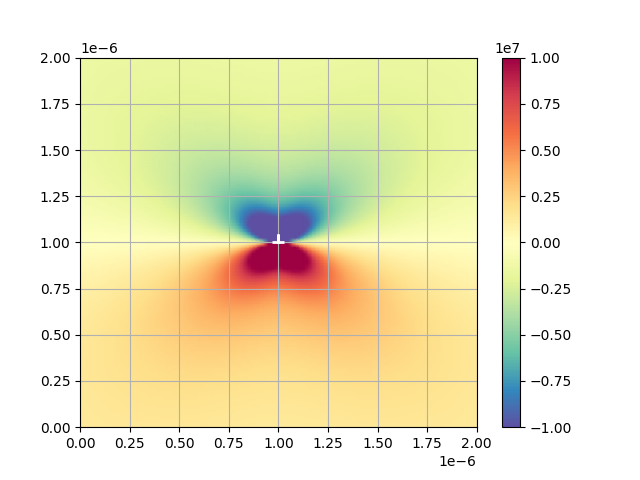
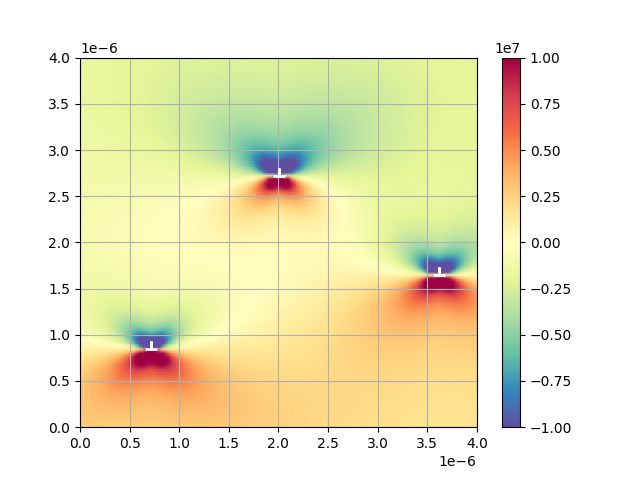
Forces and overall Stresses

diff --git a/main.py b/main.py
@@ -3,9 +3,9 @@ import matplotlib.pyplot as plt
 
 
 class Dislocation:
-    def __init__(self, burgerVec, lineVec, position):
+    def __init__(self, burgerVec, sign, position):
         self.BurgerVec = burgerVec
-        self.LineVec = lineVec
+        self.Sign = sign
         self.Position = position
 
 
@@ -14,59 +14,159 @@ class MaterialParameters:
         self.nu = nu
         self.G = G  # in GPa
 
-#given a dislocation dis, this function returns the sigmaXX stress at point x0, y0
-def sigmaXX(dis, x0, y0, materialParams):
+#given a dislocation dis, this function returns the sigmaXY stress at point x0, y0
+def sigmaXY(dis, x0, y0, materialParams):
     b = np.sqrt((dis.BurgerVec).dot(dis.BurgerVec))
     G = materialParams.G
     nu = materialParams.nu
     D = (G*b)/((2*np.pi)*(1-nu))
-    disX = x0 - dis.Position[0]
-    disY = y0 - dis.Position[1]
-    sXX = (-1*D*(disY))*(((3*disX*disX)+(disY**2))/(((disX**2)+(disY**2))**2))
-    return sXX
+    delX = x0 - dis.Position[0]
+    delY = y0 - dis.Position[1]
+    sXY = ((dis.Sign)*D*(delX))*(((delX**2)-(delY**2))/(((delX**2)+(delY**2))**2))
+    return sXY
 
-#given a mesh and a dislocation this function returns another 2d array (mesh) with values of sigmaXX at each point in mesh
-#this calls sigmaXX for each point in mesh
-def plotSigmaXX(dis, materialParams, meshX, meshY):
-    sigmaXXMesh = np.zeros_like(meshX, dtype = np.float64)
+#given a mesh and a dislocation this function returns another 2d array (mesh) with values of sigmaY at each point in mesh
+#this calls sigmaXY for each point in mesh
+def plotSigmaXY(dis, materialParams, meshX, meshY):
+    sigmaXYMesh = np.zeros_like(meshX, dtype = np.float64)
     for i in range(meshY.shape[0]):
         for j in range(meshY.shape[1]):
             if ((meshX[i][j]==dis.Position[0]) and (meshY[i][j]==dis.Position[1])):
                 continue
             else:
-                a = sigmaXX(dis, meshX[i][j], meshY[i][j], materialParams)
-                sigmaXXMesh[i][j] = a
-    return sigmaXXMesh
+                a = sigmaXY(dis, meshX[i][j], meshY[i][j], materialParams)
+                sigmaXYMesh[i][j] = a
+    return sigmaXYMesh
+
+def overallStress(disArr, materialParams,meshX, meshY):
+    sigmaXYMesh = np.zeros_like(meshX, dtype = np.float64)
+    #for every Point
+    for i in range(meshY.shape[0]):
+        for j in range(meshY.shape[1]):
+            #for every dislocation
+            cumulativeForce = 0
+            for dis in disArr:
+                if ((meshX[i][j]==dis.Position[0]) and (meshY[i][j]==dis.Position[1])):
+                    continue
+                else:
+                    cumulativeForce += sigmaXY(dis, meshX[i][j], meshY[i][j], materialParams)
+            sigmaXYMesh[i][j] = cumulativeForce
+    return sigmaXYMesh
+
+def overallDisForcesXY(disArr,  materialParams):
+    forceArr = np.zeros_like(disArr)
+    #for every Dislocation
+    for i in range(len(disArr)):
+        #we will calculate force on dis due to all other dislocations
+        dis = disArr[i]
+        modB = np.sqrt((dis.BurgerVec).dot(dis.BurgerVec))
+        cumulativeForce = 0
+        xPos = dis.Position[0]
+        yPos = dis.Position[1]
+        #pick all other dislocations and calculate the force becasue of them
+        for dis2 in disArr:
+            if ((xPos==dis2.Position[0]) and (yPos==dis2.Position[1])):
+                #ignore the same dislocation because there is no force on a dislocation because of itself
+                continue
+            else:
+                #else add the force due to dis2 on original dis
+                cumulativeForce += modB*sigmaXY(dis2, xPos, yPos, materialParams)
+        forceArr[i] = cumulativeForce
+    #now we have filled up the array containing forec on all dislocations due to all other dislocations
+    return forceArr
+
+def randomDislocationArr(numDislocation, xLimit, yLimit):
+    disArr = []
+    rng = np.random.default_rng()
+    #we will generate random floats by first generating random integer and adding a random fraction value to it
+
+    #we also maintain a set of already selected random points just so we dont accidentaly choose the same point again
+    alreadySelectedPoints = set()
+
+    count = 0
+    #generate n random dislocaions
+    while(len(alreadySelectedPoints)!= numDislocation):
+        randomXposI = rng.integers(int(xLimit/(1e-6)))
+        randomYposI = rng.integers(int(yLimit/(1e-6)))
+        randomXposF = rng.random()
+        randomYposF = rng.random()
+
+        #add the integer and fraction part to get a random decimal value within limits
+        xPos = randomXposI + randomXposF
+        yPos = randomYposI + randomYposF
+
+        if (xPos, yPos) not in alreadySelectedPoints:
+            alreadySelectedPoints.add((xPos, yPos))
+            b1 = np.array([-2e-10, 0, 0])
+            sign = +1
+            p = np.array([xPos*1e-6, yPos*1e-6, 0])
+            dis = Dislocation(b1, sign, p)
+            disArr.append(dis)
+        else:
+            continue
+    return disArr
+
+def printDislocationArr(darr):
+    print('{:15} {:6}  {:6}'.format('', "X-Cordinate", "Y - Cordinate"))
+    for i in range(len(darr)):
+        print('{:15} {:11.4}  {:11.4}'.format('Dislocation '+str(i), darr[i].Position[0], darr[i].Position[1]))
 
 #initialise material constants
 materialParams = MaterialParameters(0.3, 30e9)  # (nu, G)
 #make burger vec, line vec, and the position of dislocation
 b1 = np.array([-2e-10, 0, 0])
-l1 = np.array([0, 0, -1])
+#l1 = np.array([0, 0, -1])
+sign = +1
 p1 = np.array([1e-6, 1e-6, 0])
-
+p2 = np.array([1e-6, 1.25e-6, 0])
+xLimit = 4e-6
+yLimit = 4e-6
 #create a dislocation using above parameters
-d1 = Dislocation(b1, l1, p1)
+d1 = Dislocation(b1, sign, p1)
+d2 = Dislocation(b1, sign, p2)
 
+darr = randomDislocationArr(3, xLimit, yLimit)
+printDislocationArr(darr)
+forcearr = overallDisForcesXY(darr, materialParams)
+print("Force on dislocaions")
+print(forcearr)
 #create a mesh
 #refer to a detailed answer about whe meshGrids: https://stackoverflow.com/a/49439331/9239725
-xx, yy = np.meshgrid(np.linspace(0, 2e-6, 100), np.linspace(0, 2e-6,120))
+xx, yy = np.meshgrid(np.linspace(0, xLimit, 100), np.linspace(0, yLimit,120))
 
-#get sigmaXX for each point in mesh
-stressXX = plotSigmaXX(d1, materialParams, xx, yy)
-print(stressXX)
+#get sigmaXY for each point in mesh
+stressXY = overallStress(darr, materialParams, xx, yy)
+#print(stressXY)
 
 #plot it
 plt.figure()  # 10 inch by 10 inch
 #main plot
-plt.pcolormesh(xx, yy, stressXX, vmin=-1e7, vmax=1e7, cmap='Spectral_r', shading='gouraud')
+plt.pcolormesh(xx, yy, stressXY, vmin=-1e7, vmax=1e7, cmap='Spectral_r', shading='gouraud')
 #include the side colorbar
 plt.colorbar()
 
 #add the edge Dislocation sign at the position of dislocation
 Tsign = ((-7, 0), (0, 0), (0, -8), (0, 0), (7, 0))
 Trevsign= ((-7, 0), (0, 0), (0, 8), (0, 0), (7, 0))
-plt.plot(d1.Position[0],d1.Position[1],marker=Trevsign,markeredgecolor='white',markersize=10,markeredgewidth=2)
+for dis in darr:
+    plt.plot(dis.Position[0],dis.Position[1],marker=Trevsign,markeredgecolor='white',markersize=10,markeredgewidth=2)
 #include grids in  the figure
 plt.grid()
-plt.savefig("xx")
+plt.savefig("xystart")
+
+maxTimeSteps = input("MaxTimeSteps")
+maxDelX = np.float64(input("Maximum delta x? in e-6"))*1e-6
+
+for itr in range(maxTimeSteps):
+    ForceXY = overallDisForcesXY(darr, materialParams, xx, yy)
+    maxForce = np.max(stressXY)
+    delT = maxDelX/maxForce
+
+    #now we move each dislocation
+    for dis in darr:
+        #no change in y cordinate as no climb consideration assuming no diffusion at room temp
+        dis.Position[0] = dis.Position[0] + delT*ForceXY
+        if dis.Position[0] >xLimit:
+            dis.Position[0] =  dis.Position[0] - xLimit
+        if dis.Position[0] <0:
+            dis.Posiotion[0] = dis.Position[0] + xLimit
